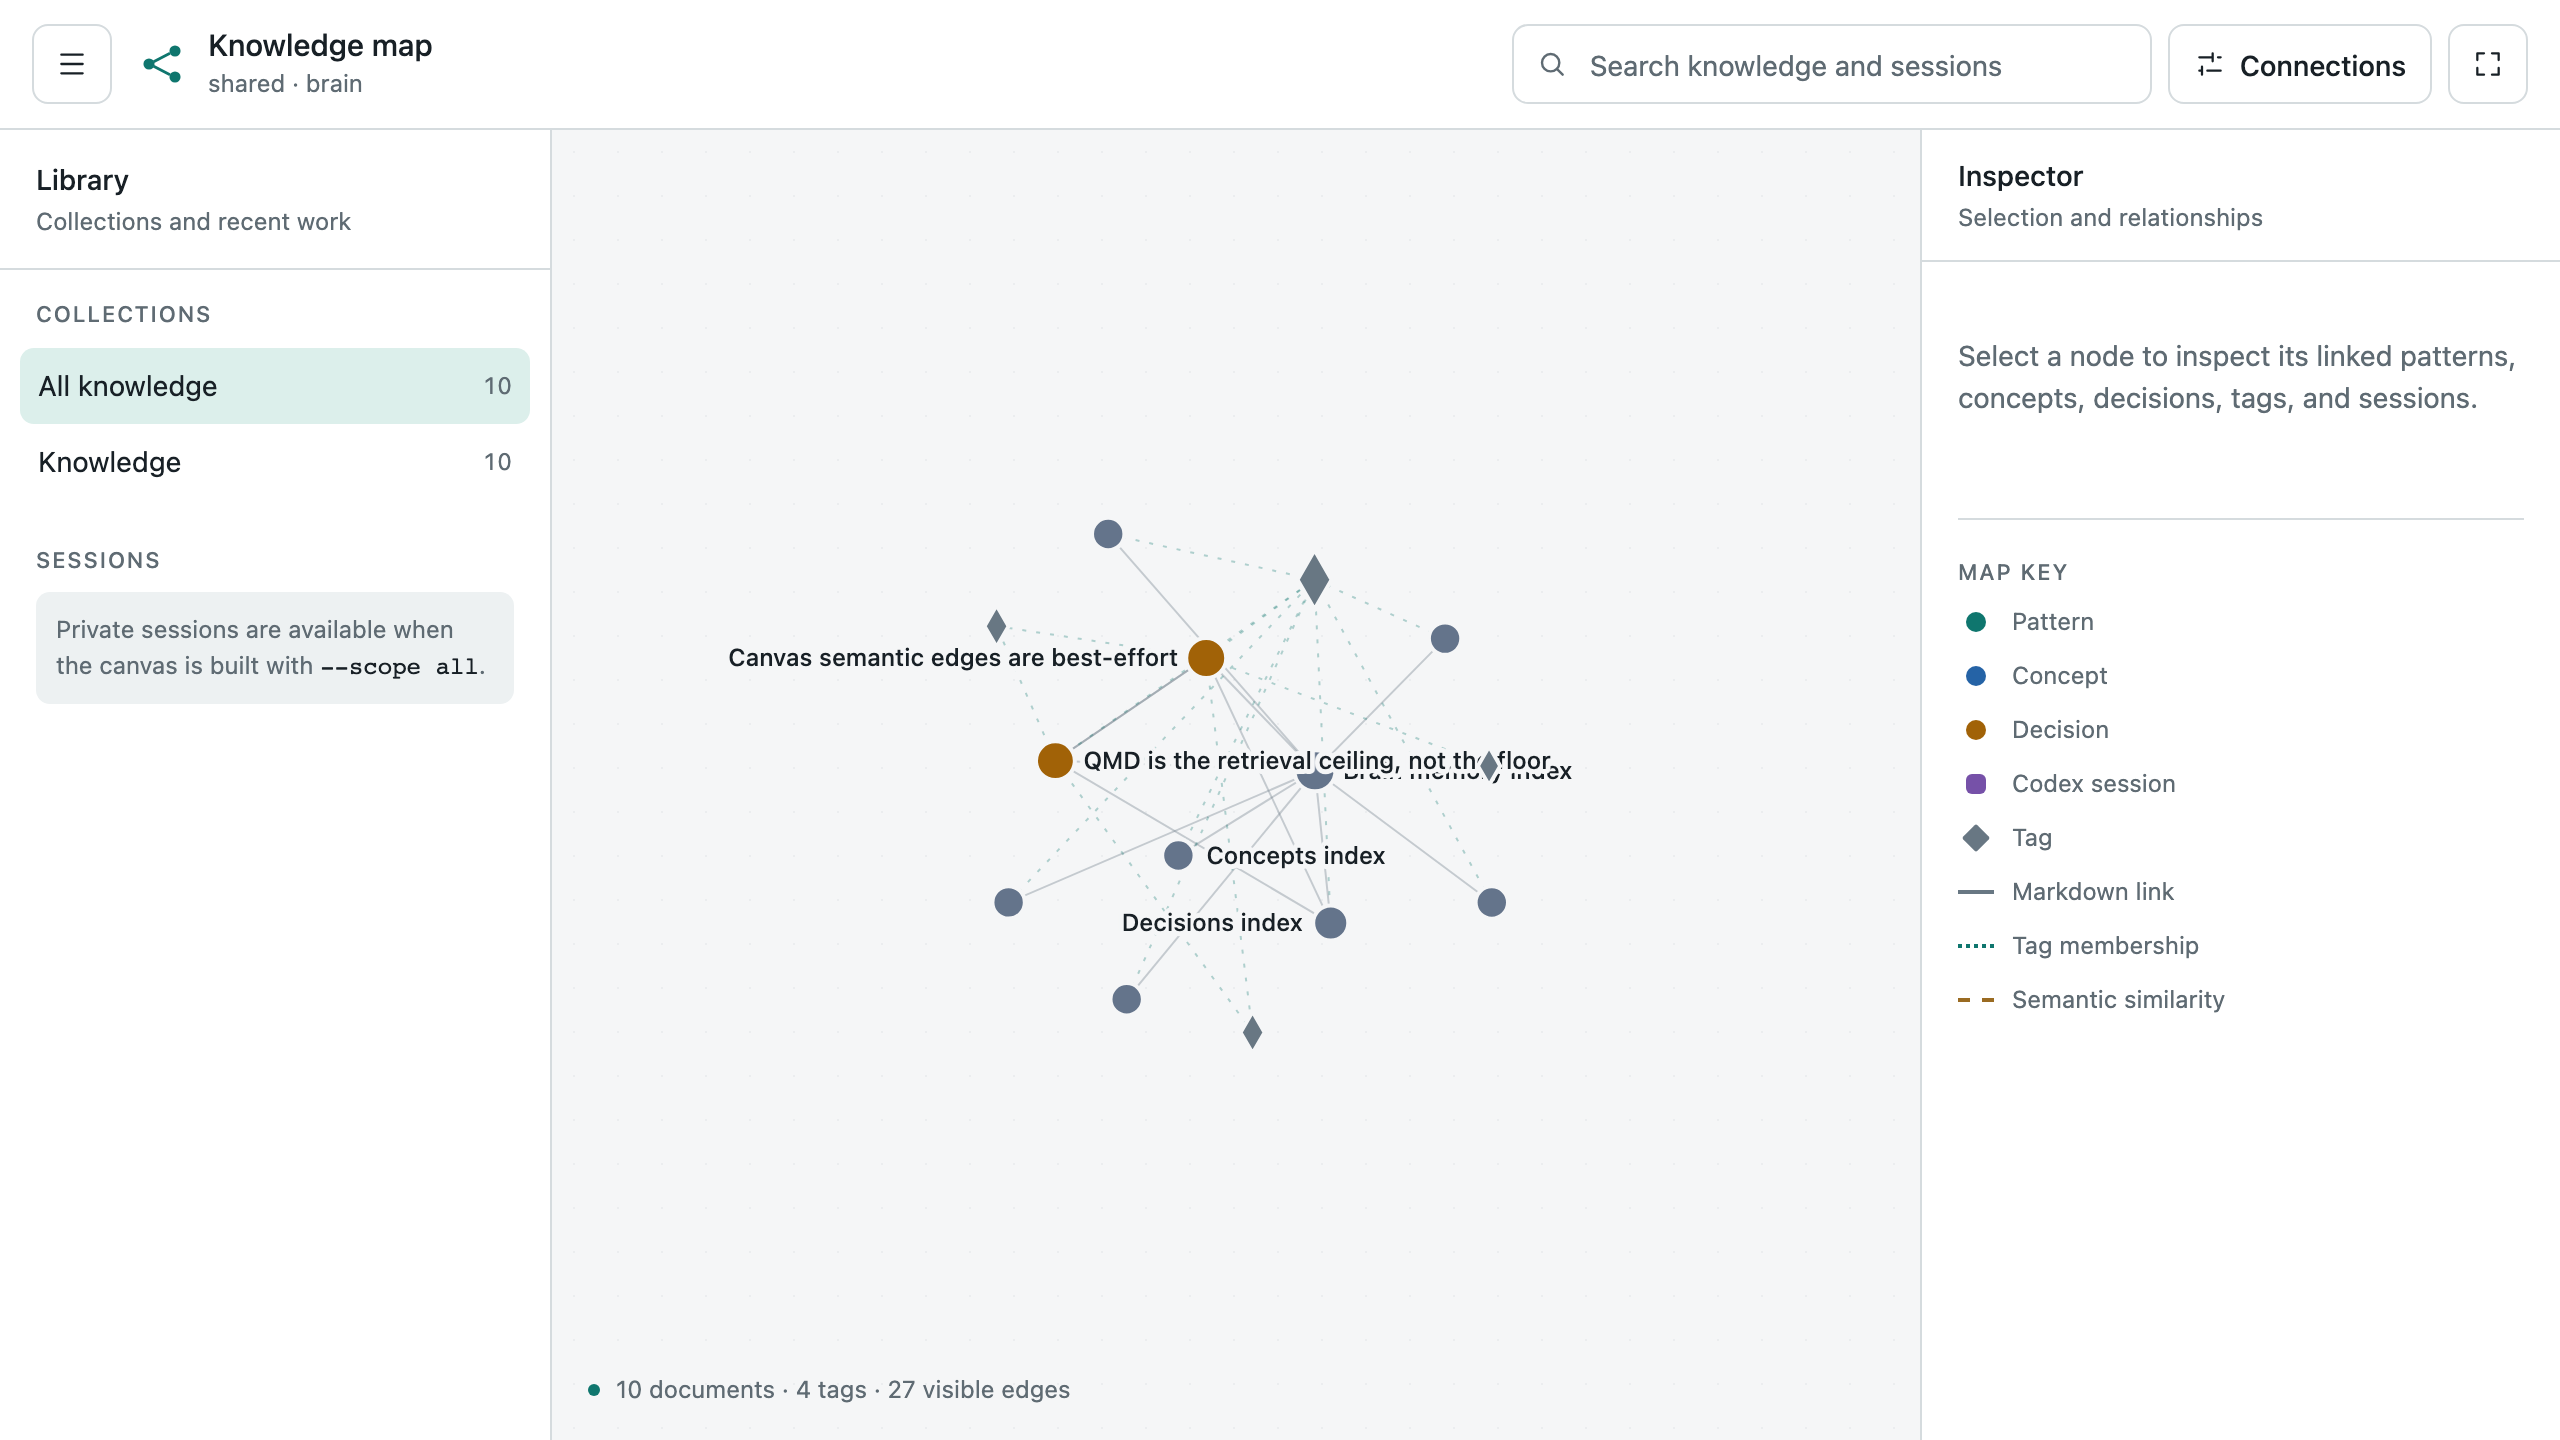
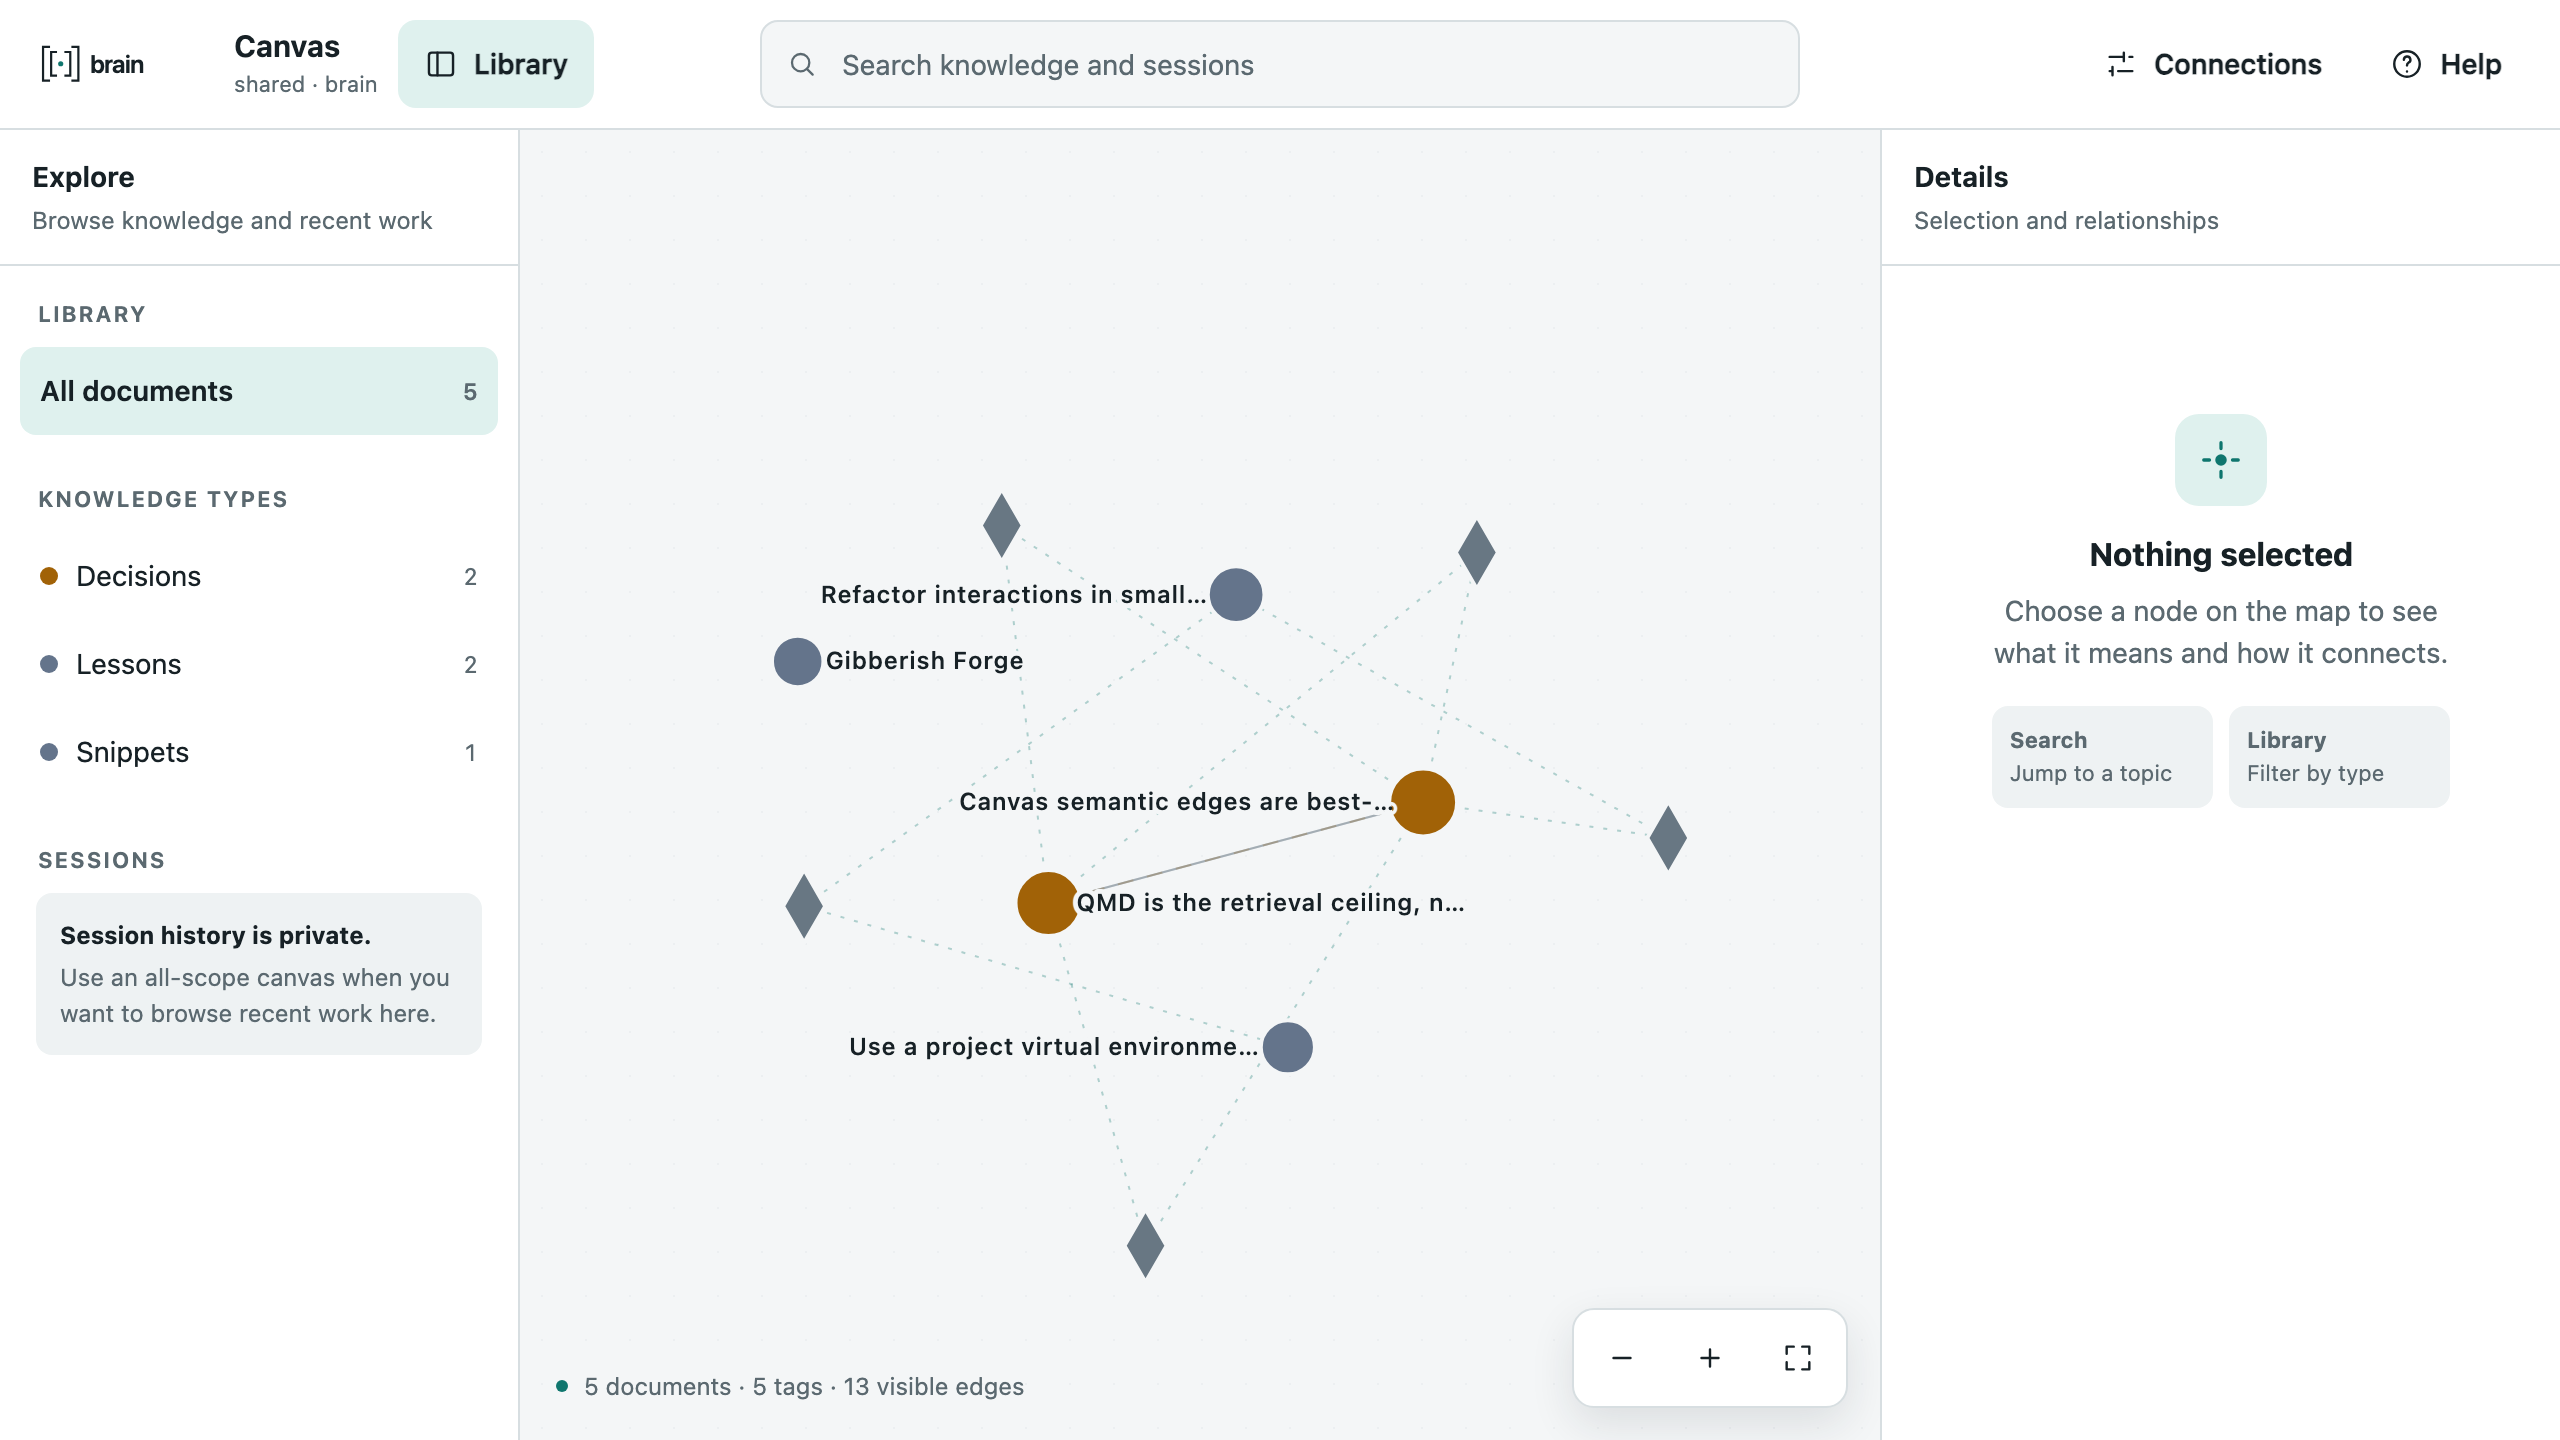
refactor: enhance artifact recall with deterministic run offer and update related documentation

diff --git a/scripts/eval_artifacts.py b/scripts/eval_artifacts.py
@@ -293,12 +293,13 @@ def evaluate(assertion: str, context: Context) -> str:
         approval = approval_module.record_approval(evidence, review, "accepted")
         approval["bundle_digest"] = f"sha256:{'b' * 64}"
         return "reject-stale-approval" if expect_error(lambda: artifact.publish_bundle(root, plan, evidence, review, approval)) else "accepted-stale"
-    if assertion in {"recall-three-fields", "recall-byte-exact", "context-mismatch", "offline-read-only", "authoritative-ranking", "digest-mismatch"}:
+    if assertion in {"recall-run-offer", "recall-byte-exact", "context-mismatch", "offline-read-only", "authoritative-ranking", "digest-mismatch"}:
         plan = context.publish(root, scratch)
         manifest = Path("snippets/normalize-text.md")
-        if assertion == "recall-three-fields":
+        if assertion == "recall-run-offer":
             output = artifact.recall_bundle(root, manifest).decode("utf-8").splitlines()
-            return "exact-three-fields" if len(output) == 3 else "wrong-shape"
+            expected_offer = "Run this stored invocation now? [yes/no]"
+            return "exact-run-offer" if len(output) == 4 and output[-1] == expected_offer else "wrong-shape"
         if assertion == "recall-byte-exact":
             return "byte-exact" if artifact.recall_bundle(root, manifest, True) == PAYLOAD else "changed-bytes"
         if assertion == "authoritative-ranking":

diff --git a/tests/test_brain.py b/tests/test_brain.py
@@ -684,6 +684,7 @@ class ArtifactBundleTests(unittest.TestCase):
                         "snippets/normalize-text.py",
                         candidate["invocation"],
                         str(metadata["artifact_verification"]),
+                        "Run this stored invocation now? [yes/no]",
                         "",
                     ]
                 ),
@@ -1671,7 +1672,7 @@ class ArtifactEvalTests(unittest.TestCase):
             "review-agreement",
             "verification-calibration",
             "approval-binding",
-            "recall-three-fields",
+            "recall-run-offer",
             "recall-byte-exact",
             "authoritative-ranking",
             "context-mismatch",

diff --git a/bin/artifact_bundle.py b/bin/artifact_bundle.py
@@ -1293,6 +1293,7 @@ def recall_bundle(
             payload_relative.as_posix(),
             str(metadata["artifact_invocation"]),
             str(metadata["artifact_verification"]),
+            "Run this stored invocation now? [yes/no]",
         ]
     )
     return f"{output}\n".encode("utf-8")

diff --git a/README.md b/README.md
@@ -152,11 +152,14 @@ For an exact artifact match, recall uses the read-only projector:
 python3 bin/artifact_bundle.py recall --manifest snippets/example.md
 ```
 
-Its default output is exactly the stored payload path, invocation, and
-verification state. `--show-code` returns the stored payload bytes unchanged.
-The projector checks the bundle digest first and never executes, adapts, or
-writes the artifact. Optional language, runtime, and applicability context
-returns one incompatibility statement instead of mismatched or adapted code.
+Its default output is exactly the stored payload path, invocation, verification
+state, and a deterministic yes/no offer to run that invocation. The offer does
+not execute anything; an affirmative response is a separate action and applies
+only to the exact invocation shown. `--show-code` returns the stored payload
+bytes unchanged. The projector checks the bundle digest first and never
+executes, adapts, or writes the artifact. Optional language, runtime, and
+applicability context returns one incompatibility statement instead of
+mismatched or adapted code.
 
 The deterministic acceptance corpus uses schema-valid JSON inputs and results:
 
@@ -165,7 +168,7 @@ python3 scripts/eval_artifacts.py --output /tmp/artifact-eval-result.json
 ```
 
 It checks eligibility, language choice, complete manifests, safety and privacy,
-updates, review/evidence/approval binding, exact minimal recall, offline
+updates, review/evidence/approval binding, deterministic run offers, offline
 read-only behavior, and fail-closed protocol cases. `scripts/verify.sh` runs the
 same gate automatically.
 

diff --git a/.agents/skills/recall/references/workflow.md b/.agents/skills/recall/references/workflow.md
@@ -83,9 +83,20 @@ projector instead of paraphrasing or regenerating code:
 python3 bin/artifact_bundle.py recall --manifest <relative-manifest-path>
 ```
 
-Return its stdout exactly. It is three lines: relative payload path, stored
-invocation, and stored verification state. If the user explicitly asks for the
-code, add `--show-code` and return the stored bytes exactly.
+Return its stdout exactly. It is four lines: relative payload path, stored
+invocation, stored verification state, and the deterministic question
+`Run this stored invocation now? [yes/no]`. The question is an offer, not
+execution authorization; recall remains read-only and must stop for the user's
+answer. If the user explicitly asks for the code, add `--show-code` and return
+the stored bytes exactly without appending text to those bytes.
+
+An affirmative answer authorizes only the exact stored invocation that was
+shown. Before running it, project the manifest again with the applicable
+language, runtime, and applicability context so digest or compatibility drift
+fails closed. Run from the declared `artifact_working_directory`. A mutating
+artifact remains limited to its stored preview invocation; any non-preview or
+external mutation requires separate explicit authorization. A negative answer
+or no answer performs no action.
 
 An authoritative update keeps this manifest path stable while replacing its
 content-bound bundle and preserving prior rationale under `## Superseded`.

diff --git a/CHANGELOG.md b/CHANGELOG.md
@@ -49,6 +49,10 @@ and this project adheres to [Semantic Versioning](https://semver.org/spec/v2.0.0
 
 ### Changed
 
+- Refreshed the README canvas screenshot against the current shared-only live
+  interface and knowledge graph.
+- Made exact artifact recall deterministically ask whether to run the stored
+  invocation while preserving read-only recall and separate execution approval.
 - Made authoritative artifact revisions update one bundle in place, preserve
   superseded rationale, and require fresh content-bound review, verification,
   and approval before recall accepts the new bytes.
